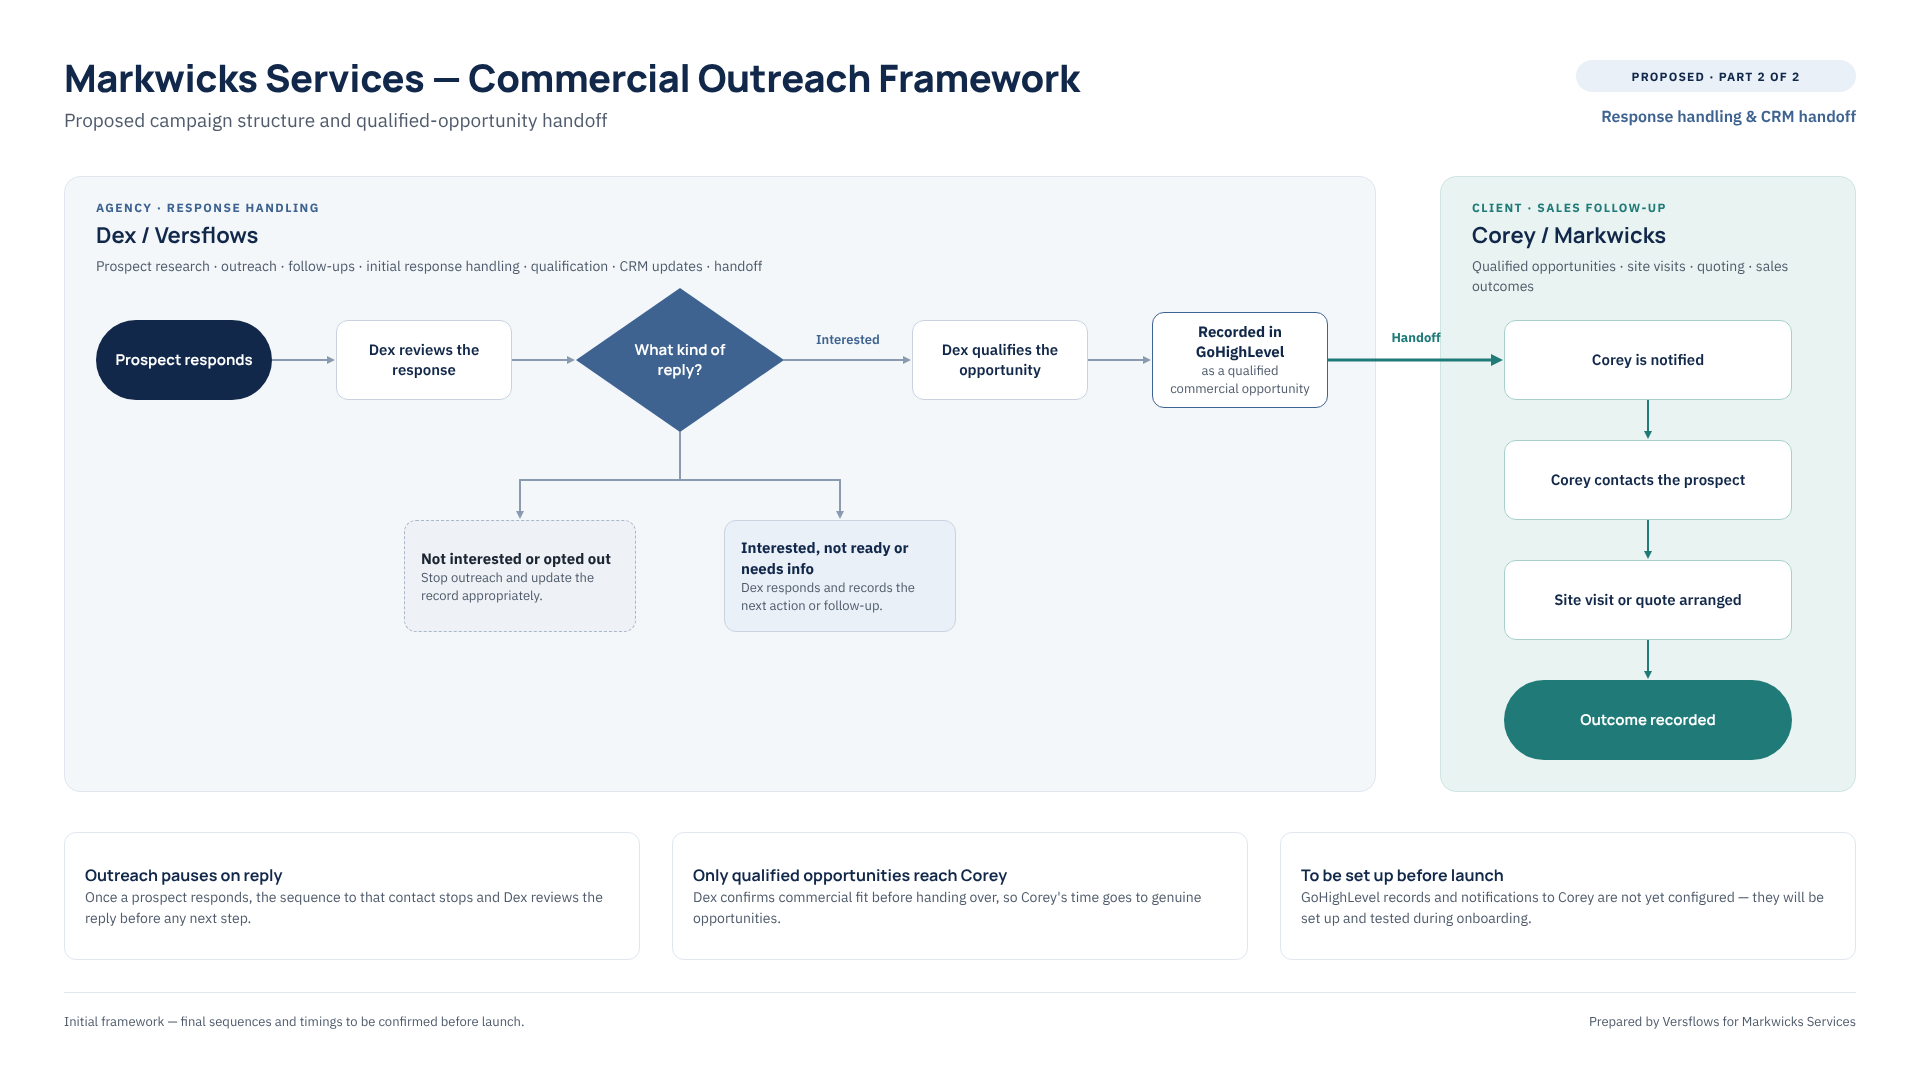
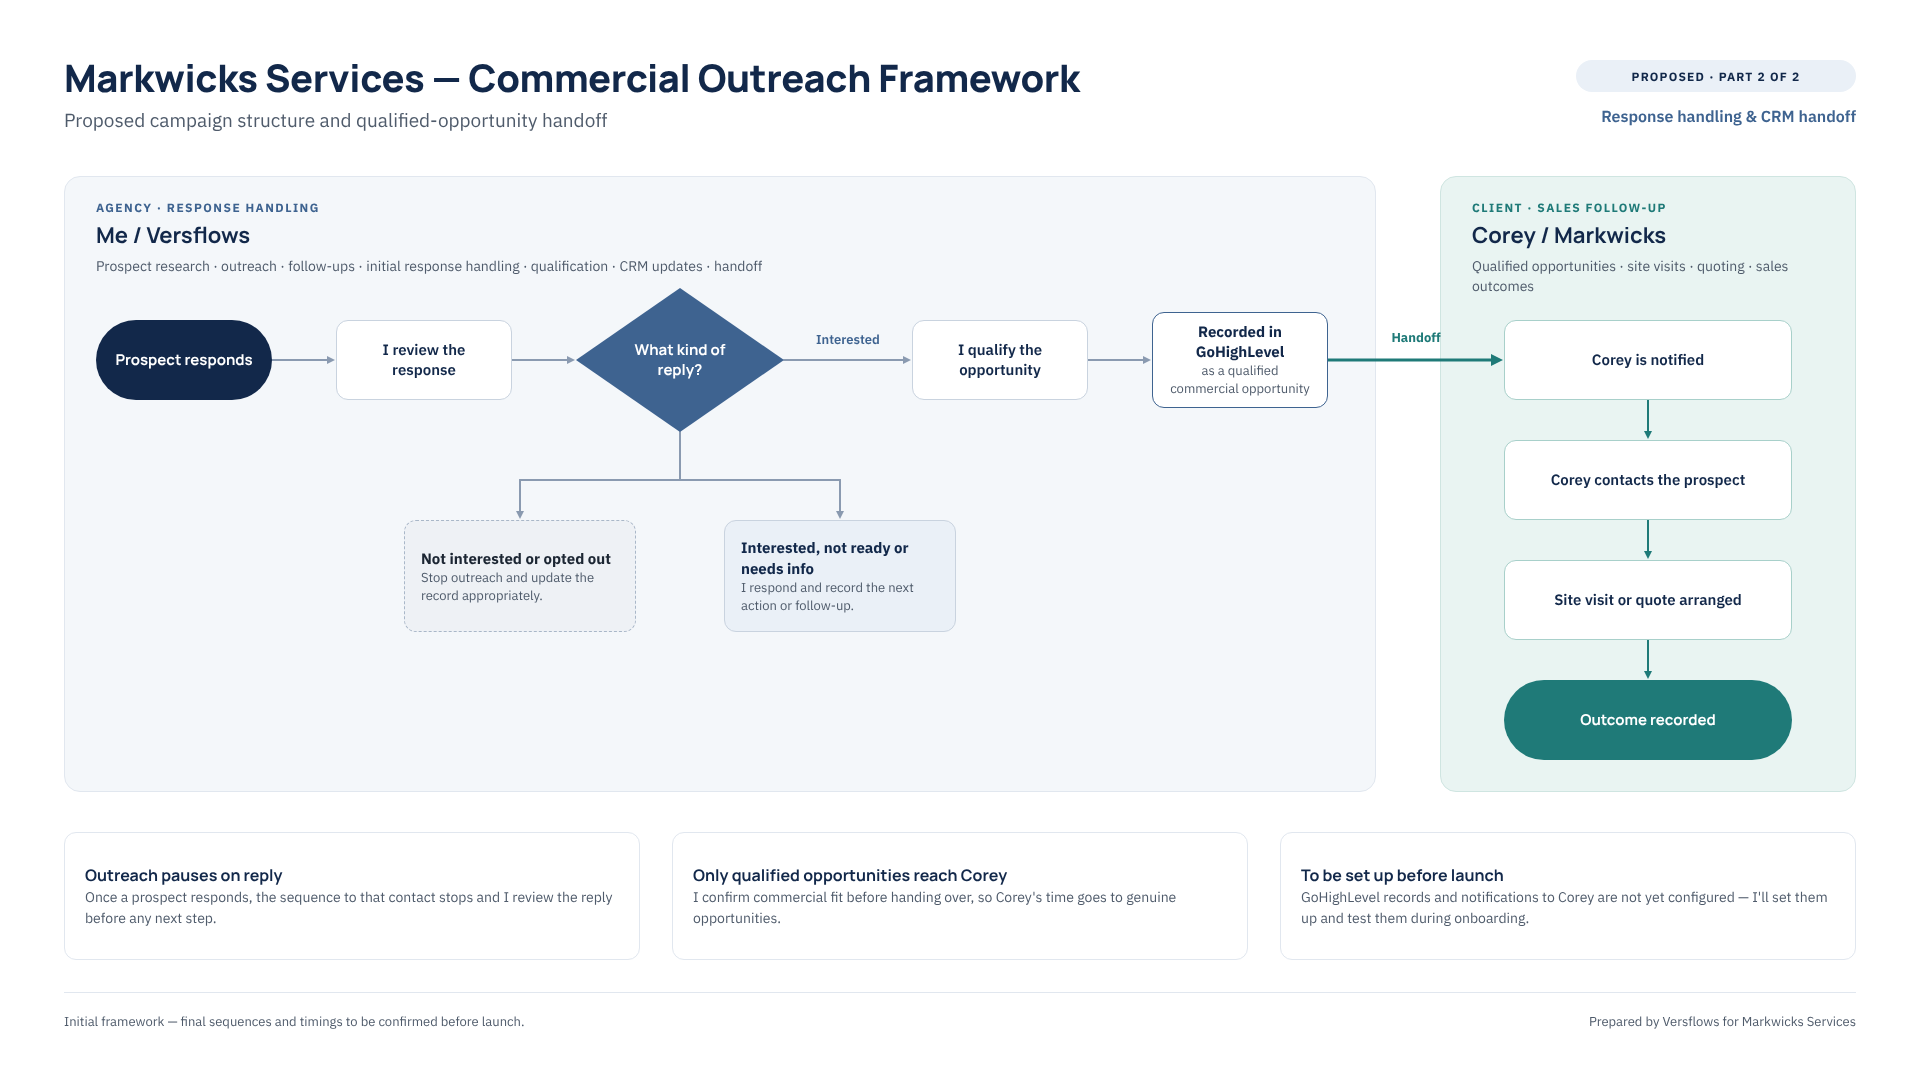
Write response-handling slide in first person
Claude-Session: https://claude.ai/code/session_012W9apddjg9jjpP6x1KtcM2

diff --git a/markwicks-outreach-framework/2-response-handling-crm-handoff.html b/markwicks-outreach-framework/2-response-handling-crm-handoff.html
@@ -34,27 +34,27 @@ body{margin:0}
 <div style="position: absolute; left: 1576px; top: 60px; width: 280px; height: 32px; box-sizing: border-box; display: flex; align-items: center; justify-content: center; background: #EAF0F7; border-radius: 16px; font-size: 12px; font-weight: 700; letter-spacing: 0.1em; color: #12284A">PROPOSED · PART 2 OF 2</div>
 <div style="position: absolute; left: 1456px; top: 104px; width: 400px; text-align: right; font-size: 16px; line-height: 24px; font-weight: 600; color: #3E6390">Response handling &amp; CRM handoff</div>
 <div style="position: absolute; left: 96px; top: 200px; width: 600px; font-size: 12px; line-height: 16px; font-weight: 700; letter-spacing: 0.12em; color: #3E6390">AGENCY · RESPONSE HANDLING</div>
-<div style="position: absolute; left: 96px; top: 220px; width: 600px; font-family: Manrope, sans-serif; font-size: 22px; line-height: 30px; font-weight: 700; color: #12284A">Dex / Versflows</div>
+<div style="position: absolute; left: 96px; top: 220px; width: 600px; font-family: Manrope, sans-serif; font-size: 22px; line-height: 30px; font-weight: 700; color: #12284A">Me / Versflows</div>
 <div style="position: absolute; left: 96px; top: 256px; width: 1248px; font-size: 14px; line-height: 20px; color: #4F5B6B">Prospect research · outreach · follow-ups · initial response handling · qualification · CRM updates · handoff</div>
 <div style="position: absolute; left: 1472px; top: 200px; width: 352px; font-size: 12px; line-height: 16px; font-weight: 700; letter-spacing: 0.12em; color: #1F7A78">CLIENT · SALES FOLLOW-UP</div>
 <div style="position: absolute; left: 1472px; top: 220px; width: 352px; font-family: Manrope, sans-serif; font-size: 22px; line-height: 30px; font-weight: 700; color: #12284A">Corey / Markwicks</div>
 <div style="position: absolute; left: 1472px; top: 256px; width: 352px; font-size: 14px; line-height: 20px; color: #4F5B6B">Qualified opportunities · site visits · quoting · sales outcomes</div>
 <div style="position: absolute; left: 96px; top: 320px; width: 176px; height: 80px; box-sizing: border-box; padding: 8px 16px; display: flex; align-items: center; justify-content: center; text-align: center; background: #12284A; border-radius: 40px; font-family: Manrope, sans-serif; font-size: 15px; line-height: 20px; font-weight: 700; color: #FFFFFF">Prospect responds</div>
-<div style="position: absolute; left: 336px; top: 320px; width: 176px; height: 80px; box-sizing: border-box; padding: 8px 16px; display: flex; align-items: center; justify-content: center; text-align: center; background: #FFFFFF; border: 1px solid #C9D3DF; border-radius: 12px; font-size: 15px; line-height: 20px; font-weight: 600; color: #12284A">Dex reviews the response</div>
+<div style="position: absolute; left: 336px; top: 320px; width: 176px; height: 80px; box-sizing: border-box; padding: 8px 16px; display: flex; align-items: center; justify-content: center; text-align: center; background: #FFFFFF; border: 1px solid #C9D3DF; border-radius: 12px; font-size: 15px; line-height: 20px; font-weight: 600; color: #12284A">I review the response</div>
 <div style="position: absolute; left: 576px; top: 288px; width: 208px; height: 144px; box-sizing: border-box; display: flex; align-items: center; justify-content: center; text-align: center; background: #3E6390; clip-path: polygon(50% 0, 100% 50%, 50% 100%, 0 50%); font-family: Manrope, sans-serif; font-size: 15px; line-height: 20px; font-weight: 700; color: #FFFFFF">What kind of<br>reply?</div>
-<div style="position: absolute; left: 912px; top: 320px; width: 176px; height: 80px; box-sizing: border-box; padding: 8px 16px; display: flex; align-items: center; justify-content: center; text-align: center; background: #FFFFFF; border: 1px solid #C9D3DF; border-radius: 12px; font-size: 15px; line-height: 20px; font-weight: 600; color: #12284A">Dex qualifies the opportunity</div>
+<div style="position: absolute; left: 912px; top: 320px; width: 176px; height: 80px; box-sizing: border-box; padding: 8px 16px; display: flex; align-items: center; justify-content: center; text-align: center; background: #FFFFFF; border: 1px solid #C9D3DF; border-radius: 12px; font-size: 15px; line-height: 20px; font-weight: 600; color: #12284A">I qualify the opportunity</div>
 <div style="position: absolute; left: 1152px; top: 312px; width: 176px; height: 96px; box-sizing: border-box; padding: 8px 14px; display: flex; align-items: center; justify-content: center; text-align: center; background: #FFFFFF; border: 1.5px solid #3E6390; border-radius: 12px; font-size: 13px; line-height: 18px; color: #4F5B6B"><span><b style="font-size: 15px; line-height: 20px; color: #12284A">Recorded in GoHighLevel</b><br>as a qualified commercial opportunity</span></div>
 <div style="position: absolute; left: 404px; top: 520px; width: 232px; height: 112px; box-sizing: border-box; padding: 14px 16px; display: flex; align-items: center; background: #EEF1F5; border: 1px dashed #A9B7C8; border-radius: 12px; font-size: 13px; line-height: 18px; color: #4F5B6B"><span><b style="font-size: 15px; line-height: 21px; color: #1C2633">Not interested or opted out</b><br>Stop outreach and update the record appropriately.</span></div>
-<div style="position: absolute; left: 724px; top: 520px; width: 232px; height: 112px; box-sizing: border-box; padding: 14px 16px; display: flex; align-items: center; background: #EAF0F7; border: 1px solid #C9D3DF; border-radius: 12px; font-size: 13px; line-height: 18px; color: #4F5B6B"><span><b style="font-size: 15px; line-height: 21px; color: #12284A">Interested, not ready or needs info</b><br>Dex responds and records the next action or follow-up.</span></div>
+<div style="position: absolute; left: 724px; top: 520px; width: 232px; height: 112px; box-sizing: border-box; padding: 14px 16px; display: flex; align-items: center; background: #EAF0F7; border: 1px solid #C9D3DF; border-radius: 12px; font-size: 13px; line-height: 18px; color: #4F5B6B"><span><b style="font-size: 15px; line-height: 21px; color: #12284A">Interested, not ready or needs info</b><br>I respond and record the next action or follow-up.</span></div>
 <div style="position: absolute; left: 1504px; top: 320px; width: 288px; height: 80px; box-sizing: border-box; padding: 8px 16px; display: flex; align-items: center; justify-content: center; text-align: center; background: #FFFFFF; border: 1px solid #A8D0CA; border-radius: 12px; font-size: 15px; line-height: 20px; font-weight: 600; color: #12284A">Corey is notified</div>
 <div style="position: absolute; left: 1504px; top: 440px; width: 288px; height: 80px; box-sizing: border-box; padding: 8px 16px; display: flex; align-items: center; justify-content: center; text-align: center; background: #FFFFFF; border: 1px solid #A8D0CA; border-radius: 12px; font-size: 15px; line-height: 20px; font-weight: 600; color: #12284A">Corey contacts the prospect</div>
 <div style="position: absolute; left: 1504px; top: 560px; width: 288px; height: 80px; box-sizing: border-box; padding: 8px 16px; display: flex; align-items: center; justify-content: center; text-align: center; background: #FFFFFF; border: 1px solid #A8D0CA; border-radius: 12px; font-size: 15px; line-height: 20px; font-weight: 600; color: #12284A">Site visit or quote arranged</div>
 <div style="position: absolute; left: 1504px; top: 680px; width: 288px; height: 80px; box-sizing: border-box; padding: 8px 16px; display: flex; align-items: center; justify-content: center; text-align: center; background: #1F7A78; border-radius: 40px; font-family: Manrope, sans-serif; font-size: 15px; line-height: 20px; font-weight: 700; color: #FFFFFF">Outcome recorded</div>
 <div style="position: absolute; left: 808px; top: 332px; width: 80px; text-align: center; font-size: 13px; line-height: 16px; font-weight: 600; color: #3E6390">Interested</div>
 <div style="position: absolute; left: 1380px; top: 330px; width: 72px; text-align: center; font-size: 13px; line-height: 16px; font-weight: 700; color: #1F7A78">Handoff</div>
-<div style="position: absolute; left: 64px; top: 832px; width: 576px; height: 128px; box-sizing: border-box; padding: 18px 20px; display: flex; align-items: center; background: #FFFFFF; border: 1px solid #E1E7EF; border-radius: 12px; font-size: 14px; line-height: 21px; color: #4F5B6B"><span><b style="font-family: Manrope, sans-serif; font-size: 16px; line-height: 24px; color: #12284A">Outreach pauses on reply</b><br>Once a prospect responds, the sequence to that contact stops and Dex reviews the reply before any next step.</span></div>
-<div style="position: absolute; left: 672px; top: 832px; width: 576px; height: 128px; box-sizing: border-box; padding: 18px 20px; display: flex; align-items: center; background: #FFFFFF; border: 1px solid #E1E7EF; border-radius: 12px; font-size: 14px; line-height: 21px; color: #4F5B6B"><span><b style="font-family: Manrope, sans-serif; font-size: 16px; line-height: 24px; color: #12284A">Only qualified opportunities reach Corey</b><br>Dex confirms commercial fit before handing over, so Corey's time goes to genuine opportunities.</span></div>
-<div style="position: absolute; left: 1280px; top: 832px; width: 576px; height: 128px; box-sizing: border-box; padding: 18px 20px; display: flex; align-items: center; background: #FFFFFF; border: 1px solid #E1E7EF; border-radius: 12px; font-size: 14px; line-height: 21px; color: #4F5B6B"><span><b style="font-family: Manrope, sans-serif; font-size: 16px; line-height: 24px; color: #12284A">To be set up before launch</b><br>GoHighLevel records and notifications to Corey are not yet configured — they will be set up and tested during onboarding.</span></div>
+<div style="position: absolute; left: 64px; top: 832px; width: 576px; height: 128px; box-sizing: border-box; padding: 18px 20px; display: flex; align-items: center; background: #FFFFFF; border: 1px solid #E1E7EF; border-radius: 12px; font-size: 14px; line-height: 21px; color: #4F5B6B"><span><b style="font-family: Manrope, sans-serif; font-size: 16px; line-height: 24px; color: #12284A">Outreach pauses on reply</b><br>Once a prospect responds, the sequence to that contact stops and I review the reply before any next step.</span></div>
+<div style="position: absolute; left: 672px; top: 832px; width: 576px; height: 128px; box-sizing: border-box; padding: 18px 20px; display: flex; align-items: center; background: #FFFFFF; border: 1px solid #E1E7EF; border-radius: 12px; font-size: 14px; line-height: 21px; color: #4F5B6B"><span><b style="font-family: Manrope, sans-serif; font-size: 16px; line-height: 24px; color: #12284A">Only qualified opportunities reach Corey</b><br>I confirm commercial fit before handing over, so Corey's time goes to genuine opportunities.</span></div>
+<div style="position: absolute; left: 1280px; top: 832px; width: 576px; height: 128px; box-sizing: border-box; padding: 18px 20px; display: flex; align-items: center; background: #FFFFFF; border: 1px solid #E1E7EF; border-radius: 12px; font-size: 14px; line-height: 21px; color: #4F5B6B"><span><b style="font-family: Manrope, sans-serif; font-size: 16px; line-height: 24px; color: #12284A">To be set up before launch</b><br>GoHighLevel records and notifications to Corey are not yet configured — I'll set them up and test them during onboarding.</span></div>
 <div style="position: absolute; left: 64px; top: 1012px; width: 1100px; font-size: 13px; line-height: 20px; color: #4F5B6B">Initial framework — final sequences and timings to be confirmed before launch.</div>
 <div style="position: absolute; left: 1456px; top: 1012px; width: 400px; text-align: right; font-size: 13px; line-height: 20px; color: #4F5B6B">Prepared by Versflows for Markwicks Services</div>
 </div>
